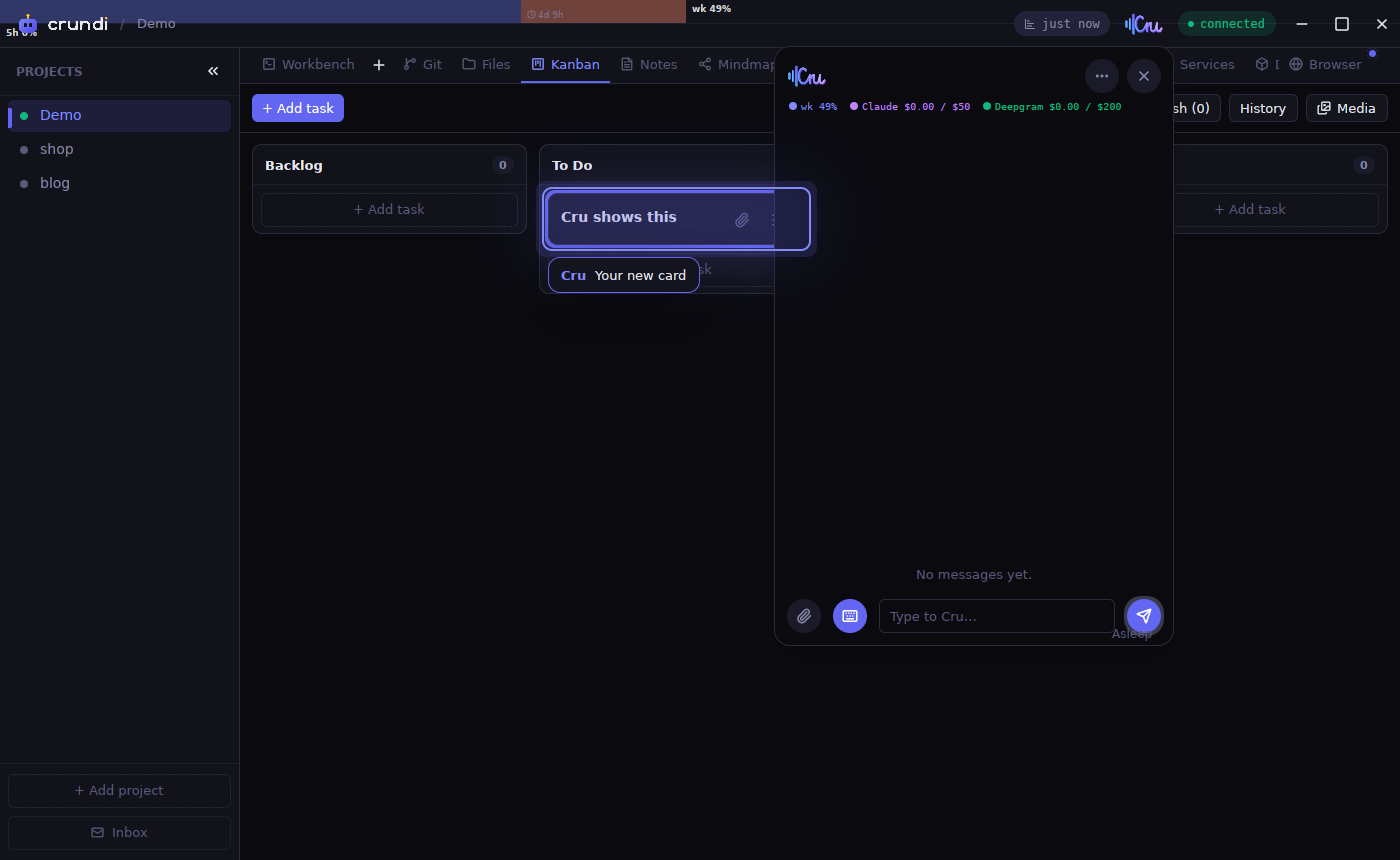
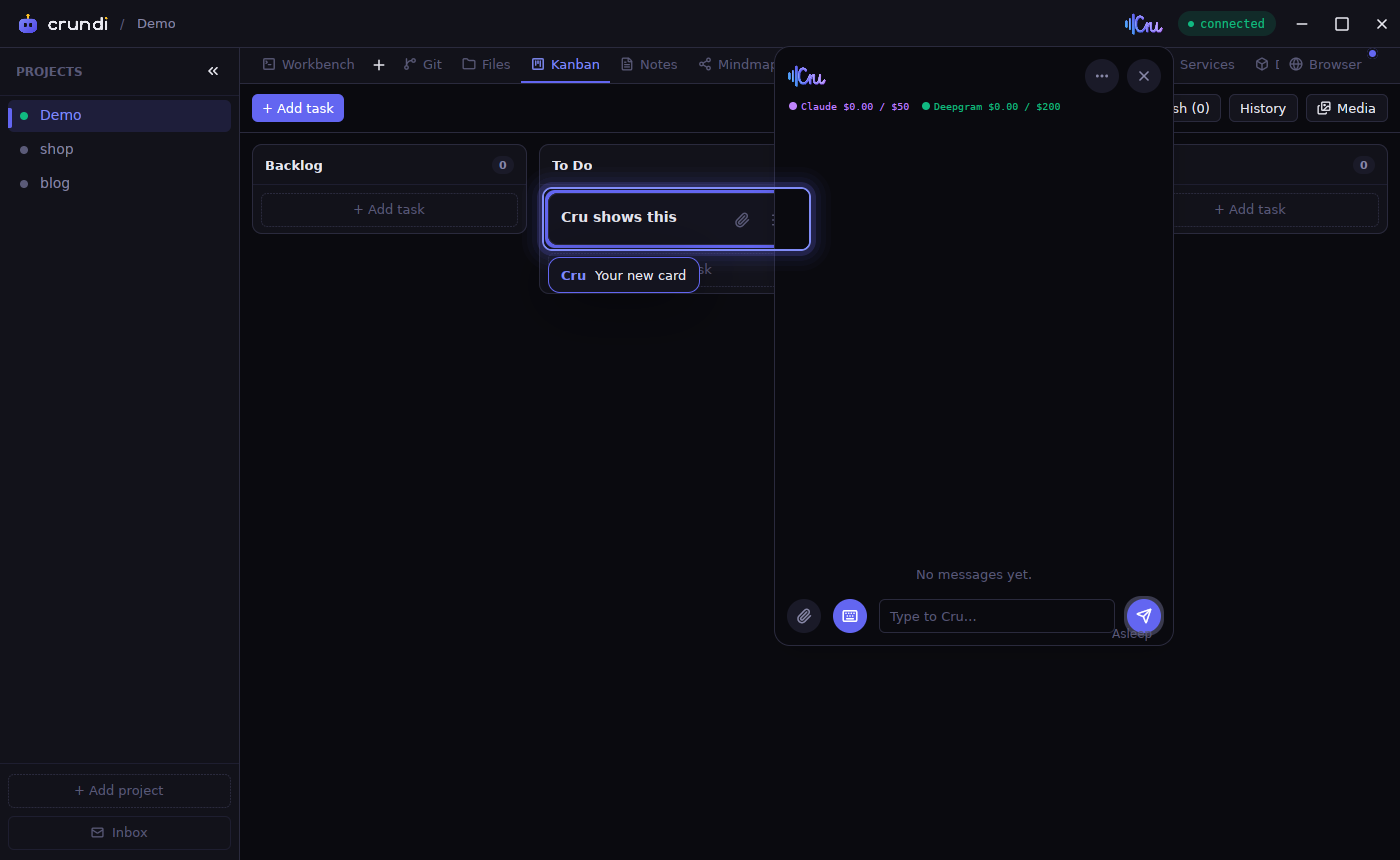
factory: Desktop — On HEAD 310927ce, starting from a clean tree; check.sh passes

diff --git a/native-v2/crates/desktop/src/cru_spot.rs b/native-v2/crates/desktop/src/cru_spot.rs
@@ -43,7 +43,7 @@ impl Global for Handle {}
 /// Made at init, as an overlay over the whole window (over Cru's screen too).
 pub fn init(cx: &mut App) {
     let v = cx.new(|_| CruSpot { ring: None, flash: None, seq: 0 });
-    crundi_shell::register_overlay(cx, v.clone().into());
+    crundi_shell::register_top_overlay(cx, v.clone().into());
     cx.set_global(Handle(v));
 }
 
@@ -141,36 +141,46 @@ impl Render for CruSpot {
         let root = div().id("cru-spot-layer").absolute().top_0().left_0().size_full();
         let mut root = root;
         if let Some(f) = &self.flash {
-            // .jump-flash: 0 0 0 3px accent, 0 0 18px 4px accent-dim, held to 60%, then gone.
-            root = root.child(div().absolute().left(f.at.origin.x).top(f.at.origin.y).w(f.at.size.width).h(f.at.size.height).rounded(T::R_CARD)
-                .with_animation(("cru-flash", f.seq as usize), Animation::new(Duration::from_millis(2200)).with_max_fps(T::ANIM_FPS), |d, t| {
+            // .jump-flash: 0 0 0 3px accent, 0 0 18px 4px accent-dim, held to 60%, then gone. A
+            // box-shadow is drawn outside its box only: here edges around the pane, never over it (F211).
+            let at = f.at;
+            root = root.child(div().absolute().size_0()
+                .with_animation(("cru-flash", f.seq as usize), Animation::new(Duration::from_millis(2200)).with_max_fps(T::ANIM_FPS), move |d, t| {
                     let k = if t <= 0.6 { 1.0 } else { 1.0 - (t - 0.6) / 0.4 };
-                    d.shadow(vec![shadow(T::accent().opacity(k), 0., px(3.) * k), shadow(T::accent_dim().opacity(k), 18., px(4.) * k)])
+                    d.child(canvas(|_, _, _| {}, move |_, _, window, _| {
+                        glow(window, at, T::R_CARD, T::accent().opacity(k), 3. * k, 0.);
+                        glow(window, at, T::R_CARD, T::accent_dim().opacity(k), 4. * k, 18.);
+                    }).absolute().size_0())
                 }));
         }
         if let Some(r) = &self.ring {
-            let pad = px(6.);
             let a = r.at;
-            // #cru-spot: 2px accent-hover edge, 10px corners, a glow that breathes (cruSpot, 1.6 s).
-            root = root.child(div().absolute().left(a.origin.x - pad).top(a.origin.y - pad).w(a.size.width + pad * 2.).h(a.size.height + pad * 2.)
-                .border_2().border_color(T::accent_hover()).rounded(T::R_CARD)
-                .with_animation(("cru-spot", r.seq as usize), Animation::new(Duration::from_millis(1600)).repeat().with_max_fps(T::ANIM_FPS), |d, t| {
+            // #cru-spot: 2px accent-hover edge 6 px out, 10px corners, a glow that breathes outside
+            // it (cruSpot, 1.6 s). Edges only: the target stays as it is (F211). The web's ring is
+            // border-box: its box the target and 6 px, the 2 px edge inside that box, the glow outside.
+            let out = a.dilate(T::CRU_SPOT_PAD);
+            root = root.child(div().absolute().size_0()
+                .with_animation(("cru-spot", r.seq as usize), Animation::new(Duration::from_millis(1600)).repeat().with_max_fps(T::ANIM_FPS), move |d, t| {
                     // 0% and 100%: 3px and 18px 4px; 50%: 7px and 34px 10px (ease-in-out).
                     let k = 0.5 - 0.5 * (t * std::f32::consts::TAU).cos();
-                    d.shadow(vec![shadow(T::accent_dim(), 0., px(3. + 4. * k)), shadow(T::accent_dim(), 18. + 16. * k, px(4. + 6. * k))])
+                    d.child(canvas(|_, _, _| {}, move |_, _, window, _| {
+                        glow(window, out, T::R_CARD, T::accent_dim(), 3. + 4. * k, 0.);
+                        glow(window, out, T::R_CARD, T::accent_dim(), 4. + 6. * k, 18. + 16. * k);
+                        band(window, out.dilate(-T::CRU_SPOT_EDGE), T::R_CARD - T::CRU_SPOT_EDGE, 0., f32::from(T::CRU_SPOT_EDGE), T::accent_hover());
+                    }).absolute().size_0())
                 }));
             if !r.note.is_empty() {
                 // #cru-spot-note: under the target (12 px), above it if it would leave the window; its left
                 // edge with the target's, kept 8 px inside the window.
                 let vp = window.viewport_size();
                 let (tw, th) = note_size(&r.note, window);
-                let mut top = a.origin.y + a.size.height + px(12.);
-                if top + th > vp.height - px(8.) { top = (a.origin.y - th - px(12.)).max(px(8.)); }
+                let mut top = a.origin.y + a.size.height + T::CRU_NOTE_GAP;
+                if top + th > vp.height - px(8.) { top = (a.origin.y - th - T::CRU_NOTE_GAP).max(px(8.)); }
                 let left = a.origin.x.min(vp.width - tw - px(8.)).max(px(8.));
-                root = root.child(div().absolute().left(left).top(top).max_w(px(320.))
+                root = root.child(div().absolute().left(left).top(top).max_w(T::CRU_NOTE_MAX_W)
                     .flex().gap(T::SP_8).items_baseline().px(T::SP_12).py(T::SP_8).rounded(T::R_BUBBLE)
                     .bg(T::bg_card()).border_1().border_color(T::accent()).text_color(T::text()).text_size(T::TEXT_13).line_height(relative(1.4))
-                    .shadow(vec![BoxShadow { color: hsla(0., 0., 0., 0.45), offset: point(px(0.), px(10.)), blur_radius: px(30.), spread_radius: px(0.), inset: false }])
+                    .shadow(vec![BoxShadow { color: T::cru_note_shadow(), offset: point(px(0.), T::CRU_NOTE_SHADOW_Y), blur_radius: T::CRU_NOTE_SHADOW_BLUR, spread_radius: px(0.), inset: false }])
                     .child(div().flex_none().font_weight(FontWeight::SEMIBOLD).text_color(T::accent_hover()).child("Cru"))
                     .child(div().min_w_0().child(r.note.clone())));
             }
@@ -189,8 +199,24 @@ impl Render for CruSpot {
     }
 }
 
-fn shadow(color: Hsla, blur: f32, spread: Pixels) -> BoxShadow {
-    BoxShadow { color, offset: point(px(0.), px(0.)), blur_radius: px(blur), spread_radius: spread, inset: false }
+/// A box-shadow without offset as CSS draws it, outside `at` only: the
+/// spread solid, the blur as four fading bands across it (an edge each,
+/// nothing painted inside `at`).
+fn glow(window: &mut Window, at: Bounds<Pixels>, r: Pixels, color: Hsla, spread: f32, blur: f32) {
+    let solid = (spread - blur / 2.).max(0.);
+    band(window, at, r, 0., solid, color);
+    let to = spread + blur / 2.;
+    const STEPS: usize = 4;
+    for i in 0..STEPS {
+        let (a, b) = (solid + (to - solid) * i as f32 / STEPS as f32, solid + (to - solid) * (i + 1) as f32 / STEPS as f32);
+        band(window, at, r, a, b, color.opacity(1. - (i as f32 + 0.5) / STEPS as f32));
+    }
+}
+
+/// An edge from `from` to `to` px outside `at` (corners `r` grown with it).
+fn band(window: &mut Window, at: Bounds<Pixels>, r: Pixels, from: f32, to: f32, color: Hsla) {
+    if to - from < 0.05 || color.a <= 0. { return; }
+    window.paint_quad(quad(at.dilate(px(to)), Corners::all(r + px(to)), transparent_black(), Edges::all(px(to - from)), color, BorderStyle::Solid));
 }
 
 /// The note bubble's size: "Cru", 8 px, the note at 13 px wrapped in 320 px
@@ -204,8 +230,8 @@ fn note_size(note: &str, window: &mut Window) -> (Pixels, Pixels) {
     let w = |s: &str, bold: bool| window.text_system().shape_line(s.to_string().into(), T::TEXT_13, &[run(s, bold)], None).width;
     let head = w("Cru", true) + T::SP_8 + T::SP_12 * 2. + px(2.);
     let text_w = w(note, false);
-    let room = px(320.) - head;
+    let room = T::CRU_NOTE_MAX_W - head;
     let lines = (f32::from(text_w) / f32::from(room).max(40.)).ceil().max(1.);
-    let tw = (head + text_w).min(px(320.));
+    let tw = (head + text_w).min(T::CRU_NOTE_MAX_W);
     (tw, px(13. * 1.4 * lines) + T::SP_8 * 2. + px(2.))
 }

diff --git a/native-v2/crates/desktop/src/cru_ui.rs b/native-v2/crates/desktop/src/cru_ui.rs
@@ -138,7 +138,7 @@ fn kid_mic_look(tone: &str, phase: &str, t: f32) -> w::MicLook {
 /// (.cv-reply.think::after, cvkdots: 1 s, .35 → 1 and up 5px).
 fn kid_dots() -> AnyElement {
     let dots = || div().flex().gap(px(10.)).h(px(18.)).items_center().children((0..3).map(|_| div().size(px(14.)).rounded_full().bg(T::accent())));
-    div().id("kid-dots").min_w(px(90.)).child(dots().with_animation("kid-dots", Animation::new(std::time::Duration::from_secs(1)).repeat().with_max_fps(T::ANIM_FPS),
+    div().id("kid-dots").min_w(T::KID_DOTS_W).child(dots().with_animation("kid-dots", Animation::new(std::time::Duration::from_secs(1)).repeat().with_max_fps(T::ANIM_FPS),
         |d, t| { let k = (1. - (std::f32::consts::TAU * t).cos()) / 2.; d.opacity(0.35 + 0.65 * k).mt(px(-5. * k)) })).into_any_element()
 }
 
@@ -336,7 +336,7 @@ impl CruScreen {
         let mic = w::liquid_mic("kid-mic", &self.liquid, kid_mic_look(cru::tone(&phase, un), if un { "ended" } else { &phase }, t), t, ms, mic_box, if phase == "speak" { "Stop talking" } else { "Talk" })
             .on_click(|_, _, _| cru::mic());
         // Mute (.cv-mute): white with the indigo icon, a pale red while muted; a flat shadow under it.
-        let flat = BoxShadow { color: T::kid_btn_shadow(), offset: point(px(0.), T::SP_4 + px(1.)), blur_radius: px(0.), spread_radius: px(0.), inset: false };
+        let flat = BoxShadow { color: T::kid_btn_shadow(), offset: point(px(0.), T::KID_BTN_DROP), blur_radius: px(0.), spread_radius: px(0.), inset: false };
         let mute = w::round_solid("kid-mute", if muted { IconName::MicOff } else { IconName::Mic }, T::KID_BTN, T::ICON_XL,
             if muted { T::kid_mute_on() } else { T::white() }, if muted { T::kid_mute_on_fg() } else { T::kid_button() }, Some(flat.clone()))
             .tooltip(w::tooltip(if muted { "Turn the microphone back on" } else { "Mute the microphone" }))
@@ -344,7 +344,7 @@ impl CruScreen {
         self.next_frame(window, cx);
         // The keyboard button (.cv-ov.kid .cv-kbb): white with the indigo icon, indigo while on.
         let kb = c.keyboard;
-        let kbb = w::round_solid("kid-kb", IconName::Keyboard, T::KID_BTN, px(28.), if kb { T::kid_button() } else { T::white() }, if kb { T::white() } else { T::kid_button() }, Some(flat))
+        let kbb = w::round_solid("kid-kb", IconName::Keyboard, T::KID_BTN, T::KID_BTN_ICON, if kb { T::kid_button() } else { T::white() }, if kb { T::white() } else { T::kid_button() }, Some(flat))
             .tooltip(w::tooltip(if kb { "Back to voice" } else { "Keyboard mode: type to Cru, no microphone" }))
             .on_click(cx.listener(move |this, _, window, cx| { cru::kid_keyboard(!kb); if !kb { this.focus_box(window, cx); } else { window.focus(&this.focus, cx); } }));
         let bottom = if kb {
@@ -362,7 +362,7 @@ impl CruScreen {
                 w::text_box(&fh, w::message_box(i, 1.).bg(T::white()).border_3().border_color(T::kid_type_border()).rounded(T::KID_TYPE_R).px(T::KID_TYPE_PAD_X).py(T::KID_TYPE_PAD_Y)
                     .text_color(T::kid_text()).text_size(T::KID_TYPE_TEXT).font_weight(T::W_BOLD).font_family(T::KID_FONT).on_paste(paste_files), window, cx)
             });
-            div().flex().items_center().gap(T::SP_12).px(T::SP_24).pt(px(6.)).pb(T::SP_20).child(kbb).child(div().flex_1().min_w_0().children(boxed)).child(send)
+            div().flex().items_center().gap(T::SP_12).px(T::SP_24).pt(T::KID_TYPE_TOP).pb(T::SP_20).child(kbb).child(div().flex_1().min_w_0().children(boxed)).child(send)
         } else {
             div().relative().flex().items_center().justify_center().py(T::SP_20).child(mic)
                 .child(div().absolute().left(T::SP_24).child(kbb))

diff --git a/native-v2/crates/shell/src/views.rs b/native-v2/crates/shell/src/views.rs
@@ -64,6 +64,8 @@ pub struct Shell {
     dragging: bool,
     /// The areas' layers over the window (`register_overlay`), read once here.
     overlays: Vec<AnyView>,
+    /// The layers over the dialogs (`register_top_overlay`), read once here.
+    top_overlays: Vec<AnyView>,
     root_focus: FocusHandle,
     /// Cru's push to talk is held (its shortcut, ptt.rs).
     ptt_held: bool,
@@ -131,7 +133,7 @@ impl Shell {
             window.focus(&to, cx);
         }));
         cx.set_global(ShellHandle(cx.entity().downgrade()));
-        Shell { stores, top, side, bar, sign_in, widths, tabs: HashMap::new(), missing: HashMap::new(), drawer: None, modal, ask, dragging: false, press: BarPress::default(), overlays: cx.try_global::<crate::Overlays>().map(|o| o.0.clone()).unwrap_or_default(), root_focus: cx.focus_handle(), ptt_held: false, seen_focus: None, lay, _subs: subs }
+        Shell { stores, top, side, bar, sign_in, widths, tabs: HashMap::new(), missing: HashMap::new(), drawer: None, modal, ask, dragging: false, press: BarPress::default(), overlays: cx.try_global::<crate::Overlays>().map(|o| o.0.clone()).unwrap_or_default(), top_overlays: cx.try_global::<crate::TopOverlays>().map(|o| o.0.clone()).unwrap_or_default(), root_focus: cx.focus_handle(), ptt_held: false, seen_focus: None, lay, _subs: subs }
     }
 
     /// The browser drawer's view (Desktop registers it).
@@ -271,6 +273,7 @@ impl Render for Shell {
             .children(self.overlays.iter().map(|v| v.clone().cached(StyleRefinement::default().absolute().top_0().left_0().size_full())))
             .child(self.modal.clone())
             .child(self.ask.clone())
+            .children(self.top_overlays.iter().map(|v| v.clone().cached(StyleRefinement::default().absolute().top_0().left_0().size_full())))
             .into_any_element()
     }
 }

diff --git a/native-v2/crates/desktop/src/lib.rs b/native-v2/crates/desktop/src/lib.rs
@@ -129,9 +129,9 @@ pub fn init(cx: &mut App) {
     // before the window's views are made); its typing box comes with the window (init_window).
     // The PC lock's screen under Cru's ("Hey Cru" works while locked).
     let lock_view = cx.new(pclock::PcLockScreen::new);
-    crundi_shell::register_overlay(cx, lock_view.clone().into());
+    crundi_shell::register_top_overlay(cx, lock_view.clone().into());
     let cru_view = cx.new(cru_ui::CruScreen::new);
-    crundi_shell::register_overlay(cx, cru_view.clone().into());
+    crundi_shell::register_top_overlay(cx, cru_view.clone().into());
     cx.set_global(CruView(cru_view, lock_view));
     // Cru's ring and the chat's flash (show_in_crundi), over everything.
     cru_spot::init(cx);
@@ -583,6 +583,9 @@ fn test_ui(name: &str, args: &[String]) -> Option<Value> {
         "cru-fold" => { cru_screen::fold(); ok() }
         // A message as Cru's page posts it.
         "cru-frame-message" => { if let Ok(v) = serde_json::from_str::<Value>(&a(0)) { cru_screen::message(&v); } ok() }
+        // A confirm left open (as a dialog over the window would be), for the kid screen and the
+        // lock to close (F212).
+        "test-ask" => { ctx::on_app(|win, cx| w::ask_confirm(win, cx, w::Ask { title: "Left open".into(), message: "A dialog".into(), ..Default::default() }, |_, _, _| {})); ok() }
         "kid-start" => { cru_kid::start(&Some(a(0)).filter(|x| !x.is_empty()).unwrap_or_else(|| "tray".into())); ok() }
         "kid-device" => { cru_kid::test_mark(a(0) != "false"); ok() }
         "kid-state" => { if let Ok(v) = serde_json::from_str::<Value>(&a(0)) { cru_kid::state(&v); } ok() }

diff --git a/native-v2/crates/theme/src/lib.rs b/native-v2/crates/theme/src/lib.rs
@@ -742,6 +742,12 @@ impl T {
     pub const KID_PIN_KEY_H: Pixels = px(56.);
     pub const KID_PIN_IN_W: Pixels = px(220.);
     pub const KID_PIN_IN_TEXT: Pixels = px(26.);
+    /// The "…" while Cru thinks (min width), the kid buttons' icon, the typing row's top,
+    /// the buttons' flat drop (0 5px 0).
+    pub const KID_DOTS_W: Pixels = px(90.);
+    pub const KID_BTN_ICON: Pixels = px(28.);
+    pub const KID_TYPE_TOP: Pixels = px(6.);
+    pub const KID_BTN_DROP: Pixels = px(5.);
     pub fn kid_pin_scrim() -> Hsla { rgba(0x0a0a0ff0).into() }
     pub fn kid_pin_key() -> Hsla { rgb(0x1a1a28).into() }
     /// The PC lock (src/webapp-html.js #pc-lock): the badge, the clock, the
@@ -781,6 +787,16 @@ impl T {
     /// .pcl-in's edge (white at .3).
     pub fn pcl_in_edge() -> Hsla { rgba(0xffffff4d).into() }
     pub fn pcl_err() -> Hsla { rgb(0xfca5a5).into() }
+    /// Cru's ring (#cru-spot): 6 px out from its target, a 2 px edge; its note
+    /// (#cru-spot-note) at most 320 wide, 12 px from the target, its shadow
+    /// 0 10px 30px rgba(0,0,0,.45).
+    pub const CRU_SPOT_PAD: Pixels = px(6.);
+    pub const CRU_SPOT_EDGE: Pixels = px(2.);
+    pub const CRU_NOTE_MAX_W: Pixels = px(320.);
+    pub const CRU_NOTE_GAP: Pixels = px(12.);
+    pub const CRU_NOTE_SHADOW_Y: Pixels = px(10.);
+    pub const CRU_NOTE_SHADOW_BLUR: Pixels = px(30.);
+    pub fn cru_note_shadow() -> Hsla { rgba(0x00000073).into() }
     // ── end desktop ──
     // ── chat ──
     /// The chat log (claude-chat.js's CSS): "Go to the newest message" (38

diff --git a/native-v2/crates/desktop/src/ctx.rs b/native-v2/crates/desktop/src/ctx.rs
@@ -194,11 +194,20 @@ fn platform_show(_: &mut Window) {}
 #[cfg(target_os = "linux")]
 fn platform_hide(win: &mut Window, _: &mut App) { win.remove_window() }
 
+/// Any open dialog (a view modal, an ask) closed as if dismissed.
+pub fn clear_dialogs(win: &mut Window, cx: &mut App) {
+    if w::modal_open(cx) { w::close_dialog(win, cx); }
+    w::ask_answer(false, None, win, cx);
+}
+
 /// The window locked to the screen (app/main.js kidLockWindow): shown, in
 /// front and full screen while kid mode or the PC lock is on; as it was
 /// when both are off. Brought back to the front if it loses the keys (lib.rs).
 pub fn lock_window(on: bool) {
-    on_app(move |win, _| {
+    on_app(move |win, cx| {
+        // The kid screen and the PC lock draw over any dialog (F212); one left open goes, so its
+        // box can't take the keys under the lock either (the web's kid screen covers it).
+        if on { clear_dialogs(win, cx); }
         let (was, made_full) = LOCKED.with(|l| l.get());
         if on == was { if on && !win.is_fullscreen() { win.toggle_fullscreen(); } return; }
         if on {

diff --git a/native-v2/crates/shell/src/lib.rs b/native-v2/crates/shell/src/lib.rs
@@ -70,6 +70,13 @@ impl Global for OpenPath {}
 pub struct Overlays(pub Vec<AnyView>);
 impl Global for Overlays {}
 pub fn register_overlay(cx: &mut App, v: AnyView) { cx.default_global::<Overlays>().0.push(v); }
+/// Layers drawn over the dialogs too (`modal`, `ask`): the web's kid screen,
+/// PC lock and Cru panel sit above any open dialog (z-index 9000 and up
+/// against the dialogs' 210), so a dialog left open never covers them (F212).
+#[derive(Default)]
+pub struct TopOverlays(pub Vec<AnyView>);
+impl Global for TopOverlays {}
+pub fn register_top_overlay(cx: &mut App, v: AnyView) { cx.default_global::<TopOverlays>().0.push(v); }
 
 /// What Cru's mark in the top bar shows (Desktop sets it, `set_cru_mark`):
 /// Cru live (listening, thinking, talking) and its unread reports. An

diff --git a/native-v2/ARCHITECTURE.md b/native-v2/ARCHITECTURE.md
@@ -189,7 +189,9 @@ Root (gpui-component)
    │     └─ Launcher     cached   ("pend:" panes) New terminal: Empty Shell, UI Mode, Terminal
    ├─ Drawer             cached   the browser drawer (Desktop)
    ├─ (overlays)         cached   the areas' layers over the window (register_overlay), side by side
-   └─ layers             layout   the ask layer (confirm, prompt, menus), the modal layer
+   ├─ layers             layout   the ask layer (confirm, prompt, menus), the modal layer
+   └─ (top overlays)     cached   over the dialogs (register_top_overlay): the PC lock, Cru's panel
+                                  and kid screen, Cru's ring (the web's z-index 9000 and up, F212)
 ```
 
 - A head redraws only when what it shows changed: the kind's `watch`
